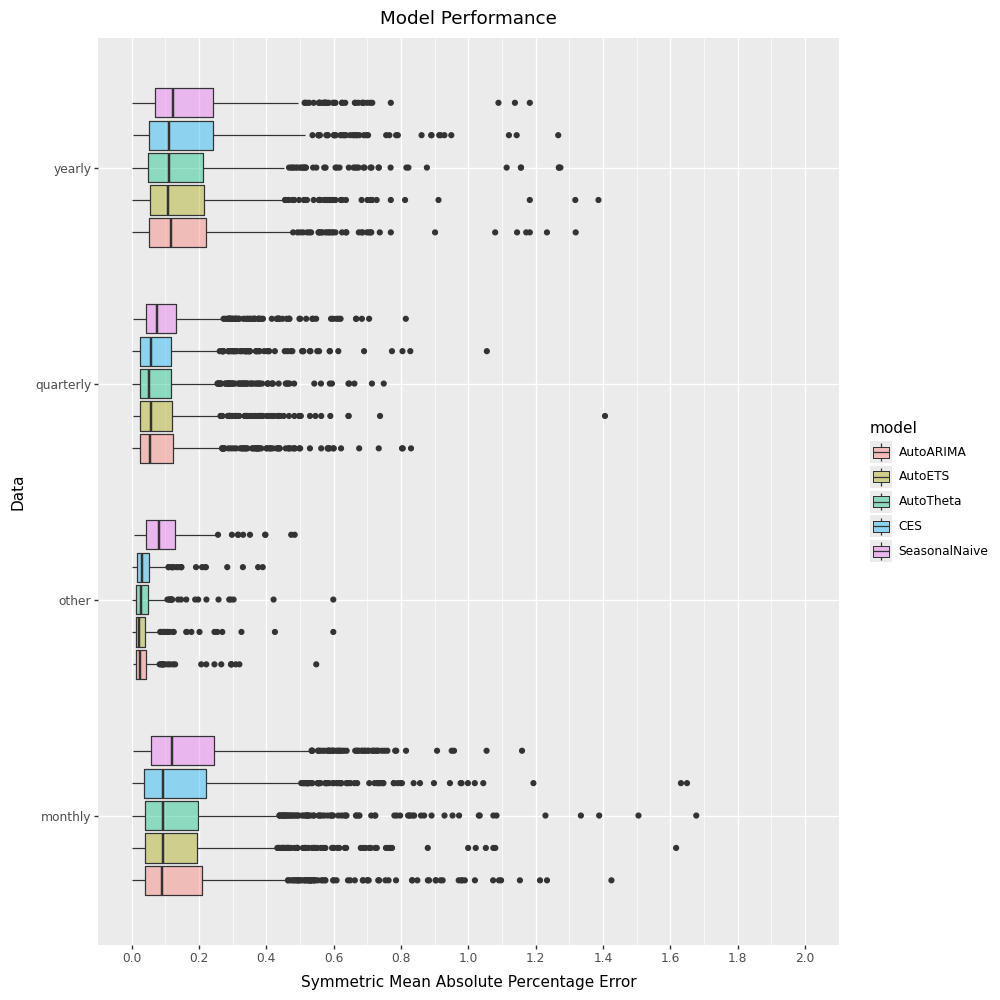
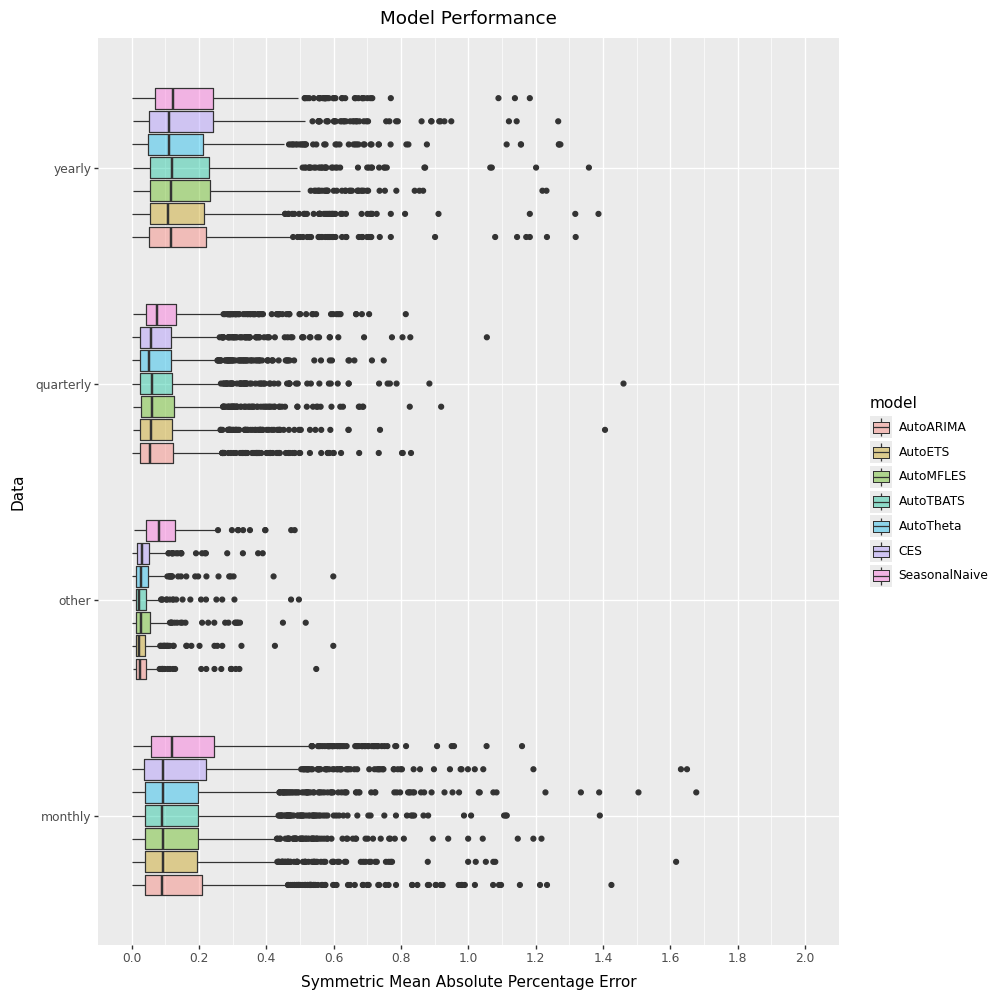
Add two models

diff --git a/code/train_stats_models.py b/code/train_stats_models.py
@@ -14,11 +14,25 @@ from functools import partial
 import numpy as np
 import pandas as pd
 from neuralforecast.losses.numpy import smape
-from plotnine import (aes, coord_flip, geom_boxplot, ggplot, ggsave, labs,
-                      scale_y_continuous)
+from plotnine import (
+    aes,
+    coord_flip,
+    geom_boxplot,
+    ggplot,
+    ggsave,
+    labs,
+    scale_y_continuous,
+)
 from statsforecast import StatsForecast
-from statsforecast.models import (AutoARIMA, AutoCES, AutoETS, AutoTheta,
-                                  SeasonalNaive)
+from statsforecast.models import (
+    AutoARIMA,
+    AutoCES,
+    AutoETS,
+    AutoMFLES,
+    AutoTBATS,
+    AutoTheta,
+    SeasonalNaive,
+)
 
 os.getcwd()
 
@@ -73,6 +87,8 @@ def predict_stats_models(train, test, dataset):
         AutoETS(season_length=sp),
         AutoCES(season_length=sp),
         AutoTheta(season_length=sp),
+        AutoMFLES(test_size=h, season_length=sp),
+        AutoTBATS(season_length=sp),
     ]
     # models = [SeasonalNaive(season_length=sp)]
     sf = StatsForecast(models=models, freq=freq, n_jobs=8)
@@ -118,7 +134,7 @@ modelPredictions = pd.concat(modelPredictions)
 def check_rows(dataset, modelPredictions):
     modelPredictions = modelPredictions.loc[modelPredictions.data == dataset]
     _, test = load_data(dataset)
-    B = test.shape[0] * 5 == modelPredictions.shape[0]
+    B = test.shape[0] * 7 == modelPredictions.shape[0]
     return B
 
 

diff --git a/code/summnarize_results.py b/code/summnarize_results.py
@@ -32,7 +32,7 @@ def calc_smape(df, Y="y", YHAT="y_hat"):
 ################################################
 modelPredictions = load_predictions("predictionsStatsDF.csv")
 
-modelPredictions.model.nunique() == 5
+modelPredictions.model.nunique() == 7
 modelPredictions.dropna().shape[0] == modelPredictions.shape[0]
 np.all(np.isfinite(modelPredictions.y_hat))
 

diff --git a/README.md b/README.md
@@ -4,13 +4,16 @@
 
 This repo takes the
 [M3](https://www.sciencedirect.com/science/article/abs/pii/S0169207000000571)
-competition’s data and builds 5 different models:
+competition’s data and builds 7 different models:
 
 - Seasonal Naive
 - Auroregressive Integrated Moving Average (ARIMA)
 - Error Trend Seasonality (ETS)
 - Complex Exponential Smoothing (CES)
 - Theta
+- Median, Frourier Functions, Linear Trend, Exponential Smoothing
+  (MFLES)
+- Trigonomic Box-Cox, ARMA, Trend and Seasonal Components (TBATS)
 
 ### Data Exploration
 
@@ -38,7 +41,7 @@ width="336" height="240" />
 
 ### Comparison with Other Participants
 
-The seasonal naive model did surprisingly well. However, all 4
+The seasonal naive model did surprisingly well. However, all 6
 statistical models were able to beat it. Error Trend Seasonality is the
 best model.
 
